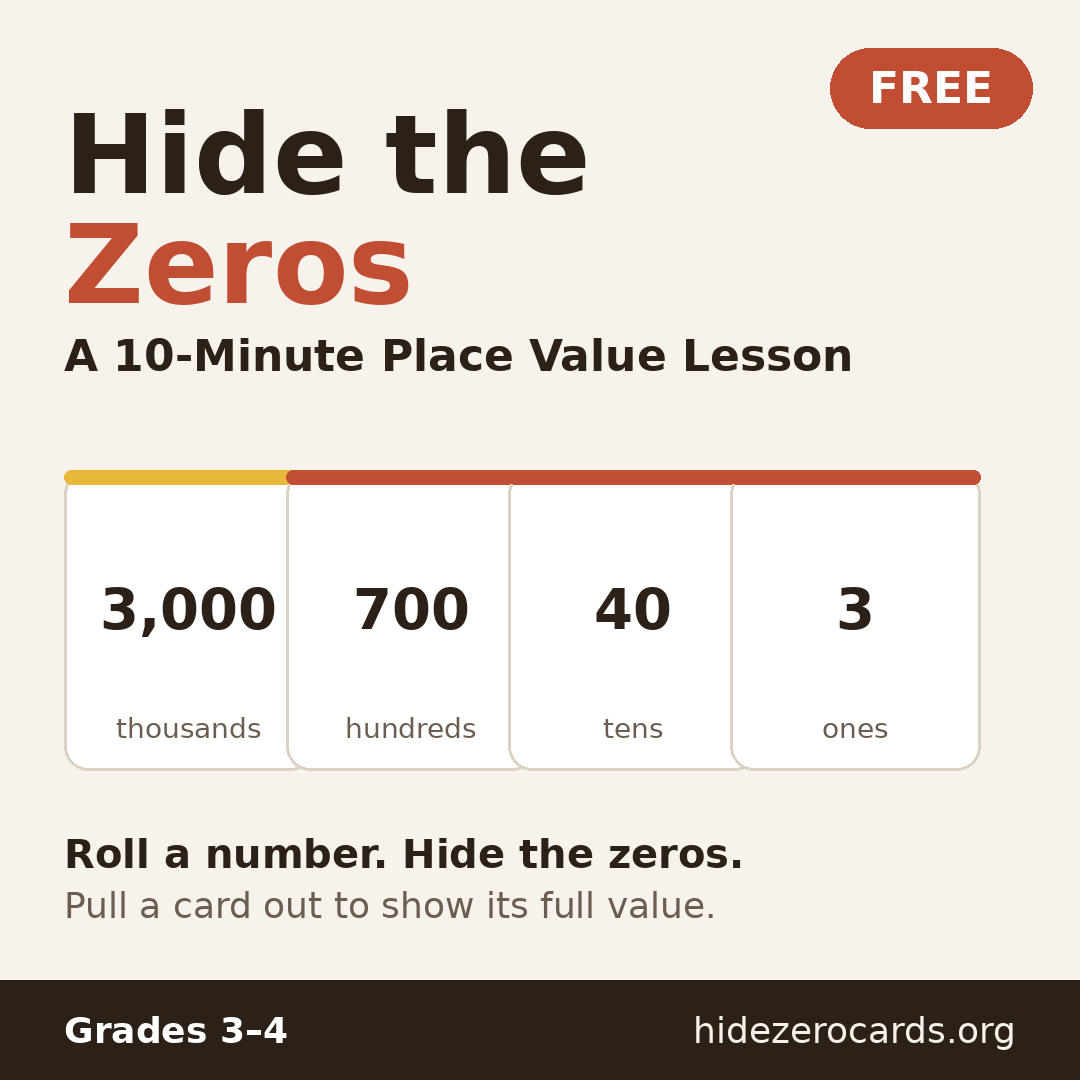
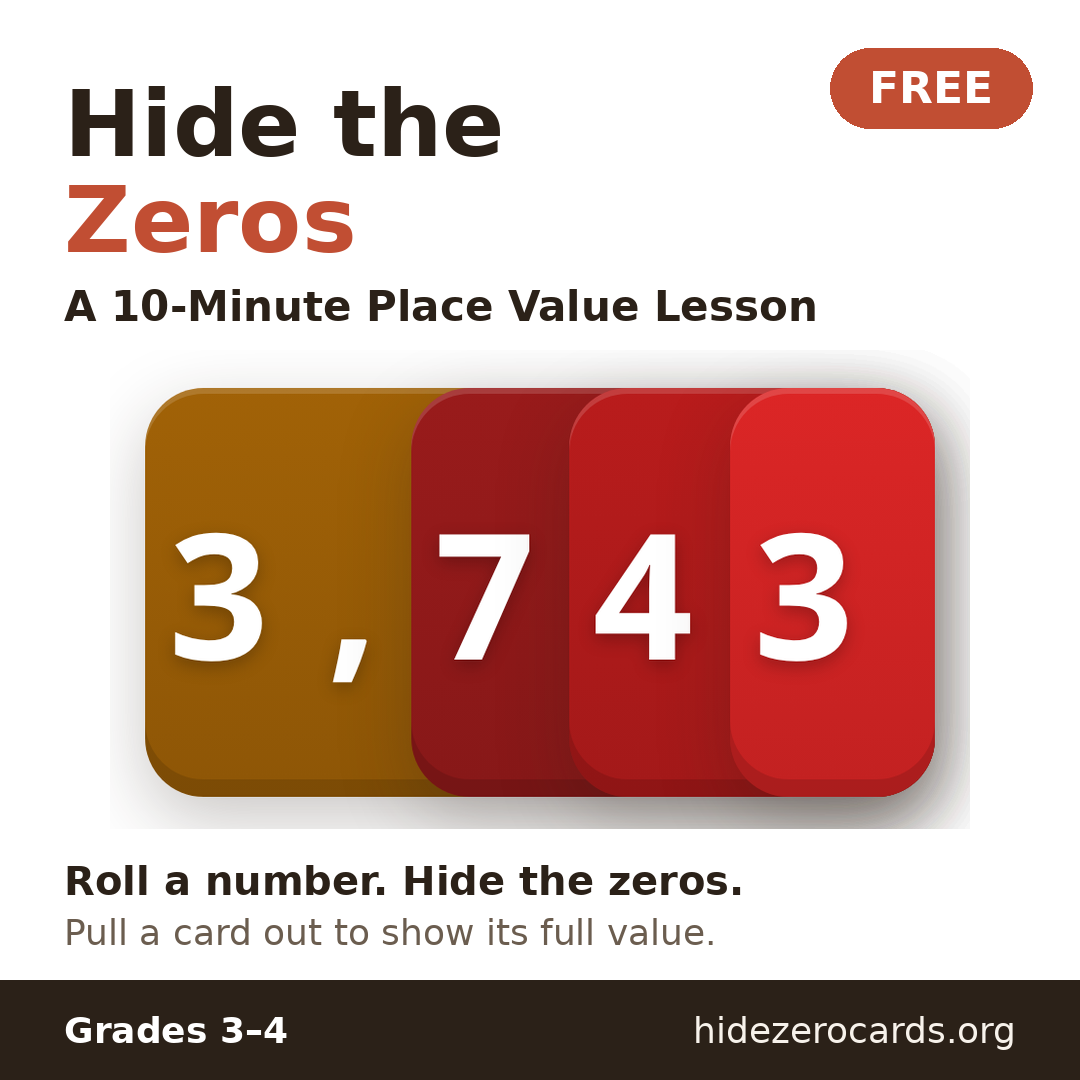
docs: rebuild TpT cover from the real app fan
The first cover drew fake white cards. Donray said it did not look
like the landing page, and he was right: the real cards are colored
tiles (thousands ochre, hundreds/tens/ones reds) with a
right-aligned overlap that reads 3,743.

The new cover screenshots the real StaticFan from the app's /about
page (3,743, real card paint and layout math) and builds the cover
around it. tpt-listing.md records how the cover was made.

diff --git a/docs/teacher-outreach/tpt-listing.md b/docs/teacher-outreach/tpt-listing.md
@@ -37,9 +37,14 @@ Other TpT rules that matter, checked Nov 10, 2026:
 
 - Main file: `hide-zero-cards-place-value-lesson.pdf`, one page,
   US Letter. Built from `tpt-lesson.md` in this folder.
-- Cover image: `tpt-cover.png`, 1080x1080, made Nov 10, 2026.
-  Title, grades 3-4, FREE badge, place value cards for 3,743,
-  hidezerocards.org. Use it as the cover and as the thumbnails.
+- Cover image: `tpt-cover.png`, 1080x1080. Title, grades 3-4, FREE
+  badge, hidezerocards.org. The fan in the middle is a screenshot
+  of the real fan from the app's /about page (StaticFan, 3,743),
+  not a redraw: the first cover drew fake white cards and Donray
+  said it did not look like the landing page, so it was rebuilt
+  Nov 10 from the real fan, with its real card paint and
+  right-aligned overlap. Use it as the cover and as the
+  thumbnails.
 
 ## Listing copy
 
